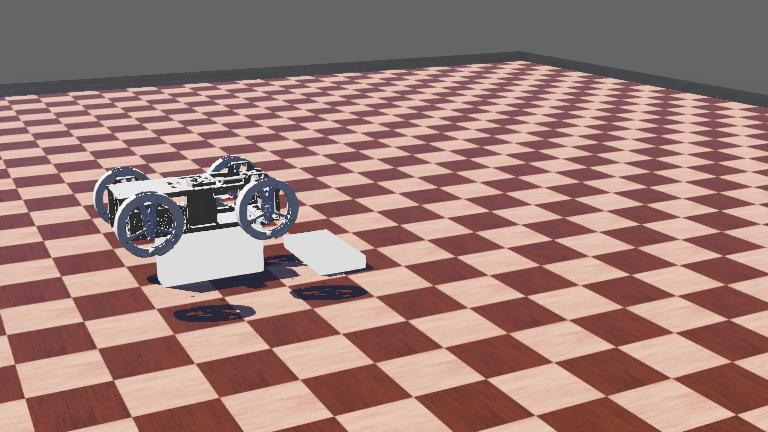
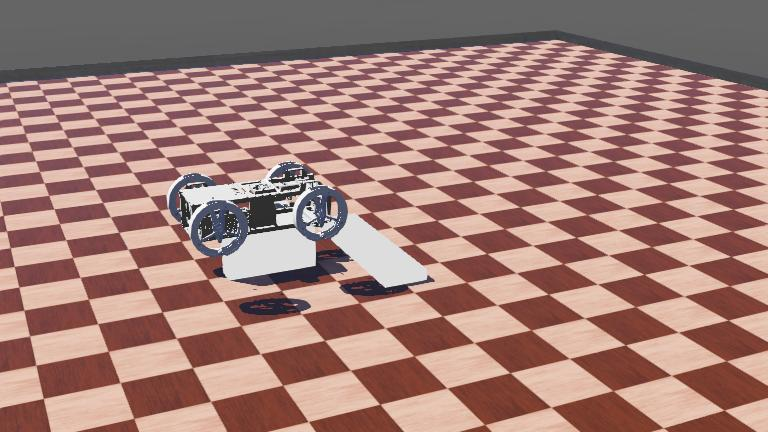
feat: update IFS_Proto_uneven world file

diff --git a/launch/Corgi_launch.py b/launch/Corgi_launch.py
@@ -10,7 +10,7 @@ def generate_launch_description():
     package_dir = get_package_share_directory('corgi_sim')
     
     # 1. 設定 Webots 世界檔路徑
-    world_path = os.path.join(package_dir, 'worlds', "IFS_Proto" + ".wbt") # corgi_origin // IFS_Proto
+    world_path = os.path.join(package_dir, 'worlds', "IFS_Proto" + ".wbt") # corgi_origin // IFS_Proto // IFS_Proto_uneven
 
     # 2. 啟動 Webots
     webots = WebotsLauncher(
